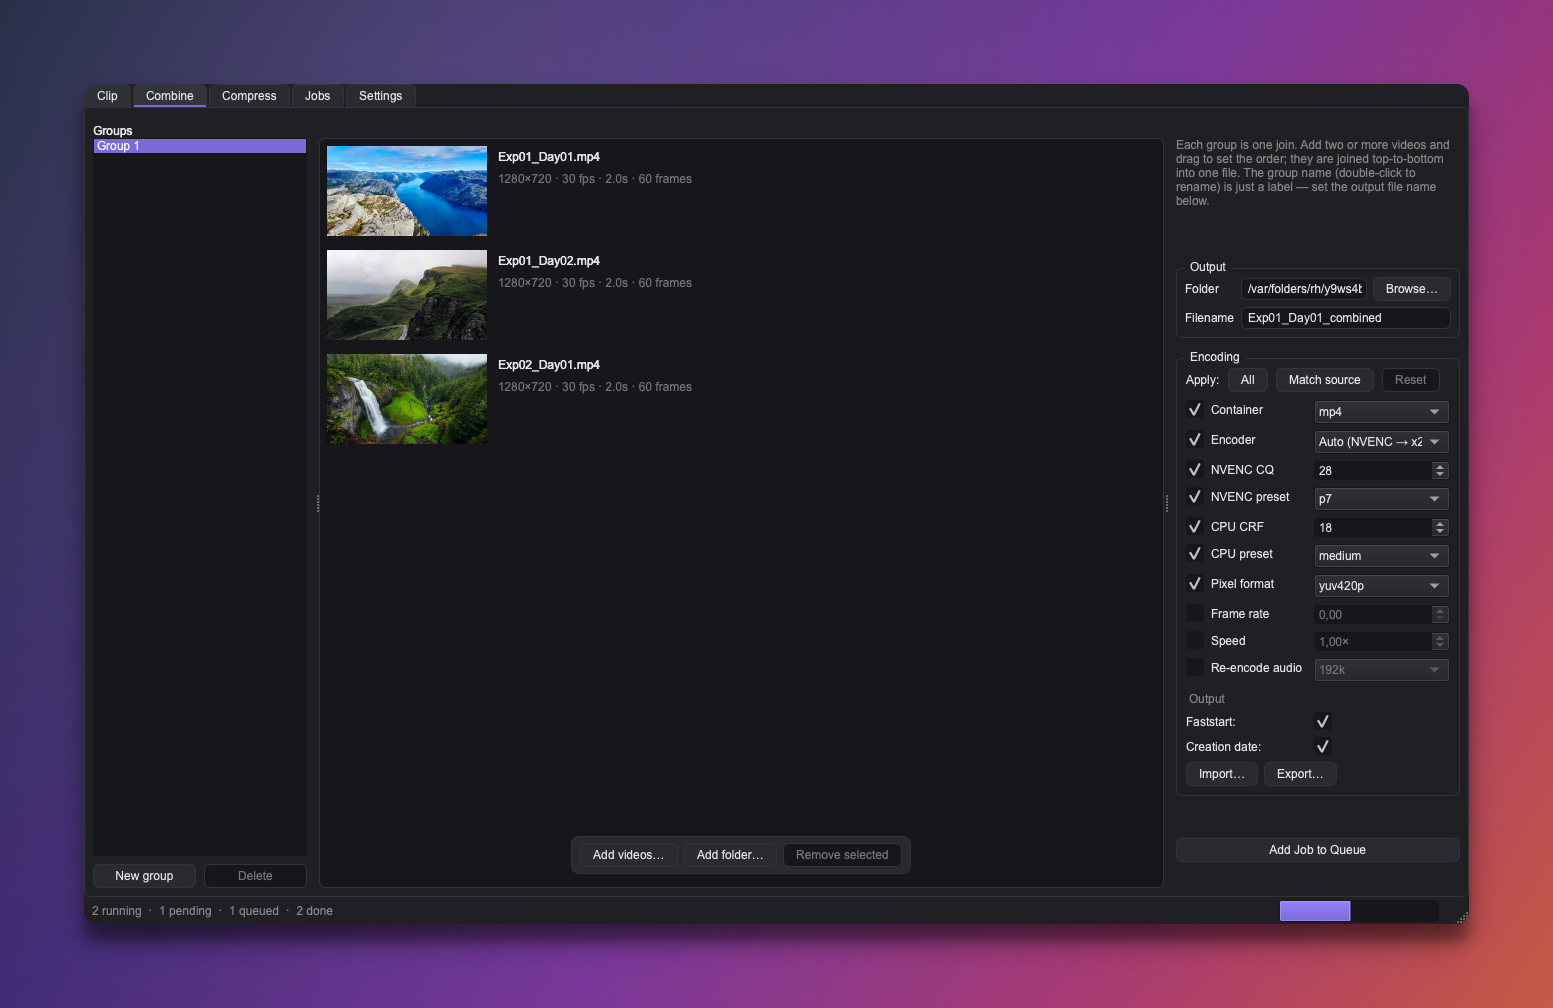
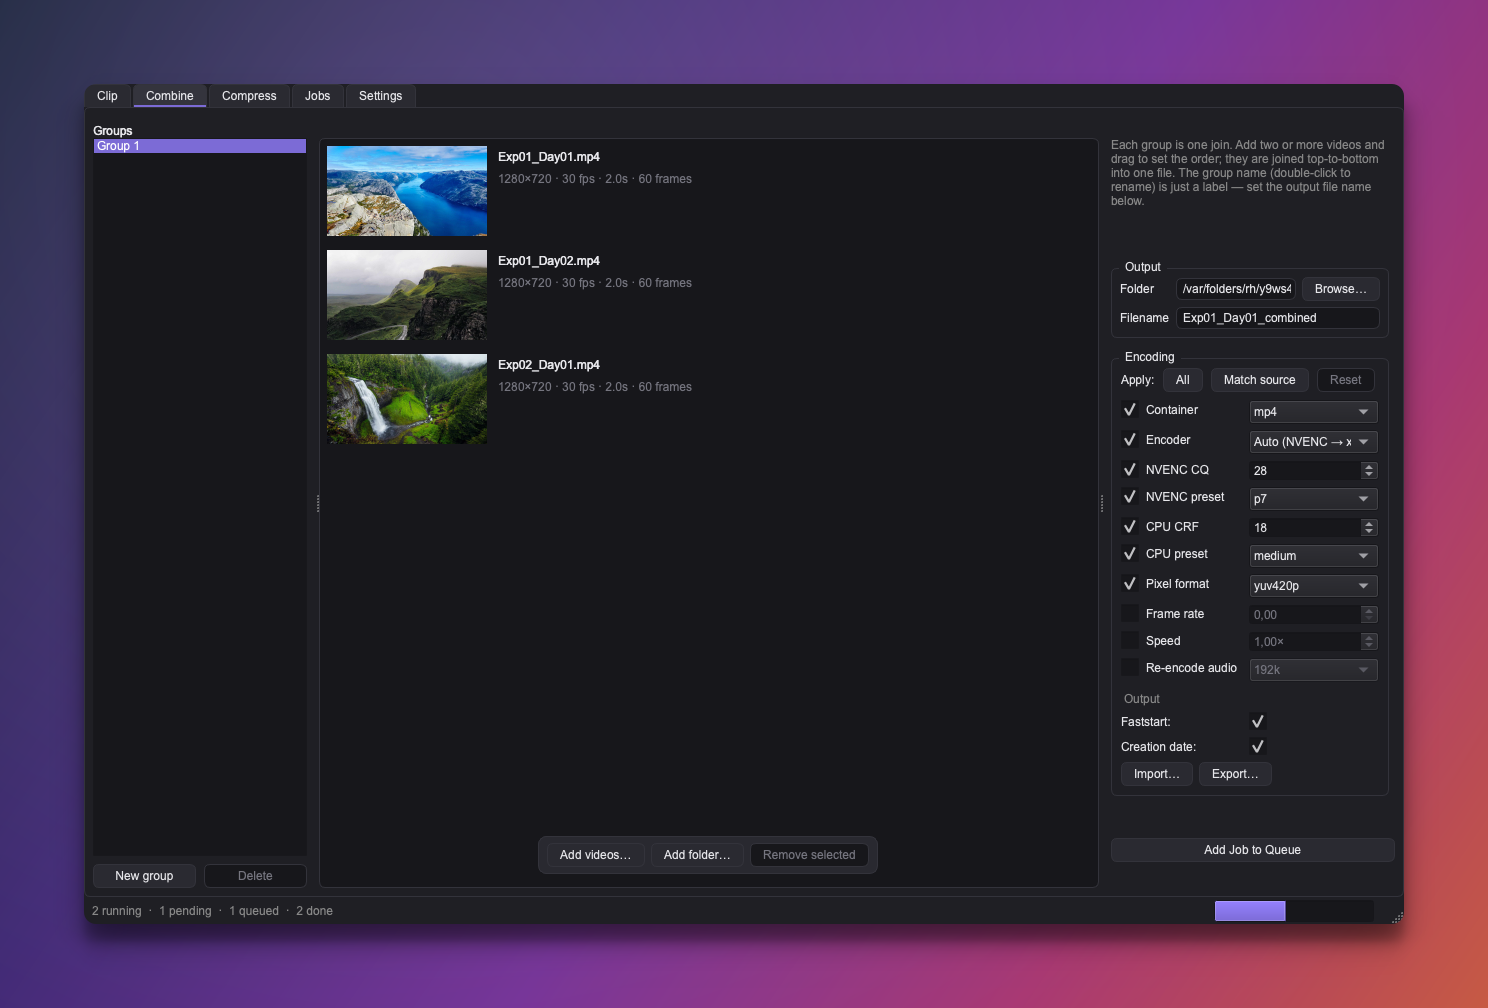
Fit the window to small screens (e.g. 13" MacBooks)
The window opened at 1340×820 but couldn't shrink below a 1440×819
*minimum*, so it overflowed a small laptop display. Three changes drop
that minimum to 1170×614 and open at a size that fits:

- Clamp the initial size to the available screen (keeping 1340×820 on big
  displays) and centre the window.
- Let the transport bar's Start/End mark buttons size to their text
  instead of a fixed width; their caption-growth is absorbed by the
  expanding "Go to" field, so Add Trim stays put. Narrows the Clip tab's
  minimum from ~1440 to ~1170.
- Scroll the Compress/Combine encoding forms (queue button pinned below),
  as the Clip editor already does — dropping their minimum height from
  769 to 190.

Regenerate the screenshots for the compact transport bar + scrolled panels.

diff --git a/src/croppy/gui/combine_tab.py b/src/croppy/gui/combine_tab.py
@@ -16,12 +16,14 @@ from loguru import logger
 from PySide6.QtCore import Qt
 from PySide6.QtWidgets import (
     QAbstractItemView,
+    QFrame,
     QHBoxLayout,
     QLabel,
     QListWidget,
     QListWidgetItem,
     QMessageBox,
     QPushButton,
+    QScrollArea,
     QSplitter,
     QStackedWidget,
     QVBoxLayout,
@@ -119,9 +121,24 @@ class CombineTab(QWidget):
         side = QWidget(splitter)
         self._side = side
         side.setMinimumWidth(280)
-        v = QVBoxLayout(side)
-        v.setContentsMargins(PANEL_MARGIN, PANEL_HEADER_HEIGHT, PANEL_MARGIN, PANEL_MARGIN)
+        # Scroll the controls (queue button pinned below) so the tall encoding
+        # form never forces the window past a small screen's height.
+        outer = QVBoxLayout(side)
+        outer.setContentsMargins(PANEL_MARGIN, PANEL_HEADER_HEIGHT, PANEL_MARGIN, PANEL_MARGIN)
+        outer.setSpacing(12)
+        scroll = QScrollArea()
+        scroll.setWidgetResizable(True)
+        scroll.setFrameShape(QFrame.Shape.NoFrame)
+        scroll.setHorizontalScrollBarPolicy(Qt.ScrollBarPolicy.ScrollBarAlwaysOff)
+        scroll.viewport().setAutoFillBackground(False)
+        outer.addWidget(scroll, 1)
+        gutter = scroll.verticalScrollBar().sizeHint().width() or 16
+        controls = QWidget()
+        controls.setAutoFillBackground(False)
+        v = QVBoxLayout(controls)
+        v.setContentsMargins(0, 0, gutter, 0)
         v.setSpacing(12)
+        scroll.setWidget(controls)
         hint = QLabel(
             "Each group is one join. Add two or more videos and drag to set the "
             "order; they are joined top-to-bottom into one file. The group name "
@@ -149,10 +166,10 @@ class CombineTab(QWidget):
         self.queue_btn = QPushButton("Add Job to Queue")
         self.queue_btn.setEnabled(False)
         self.queue_btn.clicked.connect(self._queue_current)
-        v.addWidget(self.queue_btn)
+        outer.addWidget(self.queue_btn)
 
         self.queued_flash = StatusFlash()
-        v.addWidget(self.queued_flash)
+        outer.addWidget(self.queued_flash)
 
         splitter.addWidget(groups_panel)
         splitter.addWidget(self.stack)

diff --git a/src/croppy/gui/compress_tab.py b/src/croppy/gui/compress_tab.py
@@ -17,9 +17,11 @@ from PySide6.QtCore import Qt
 from PySide6.QtWidgets import (
     QDialog,
     QFileDialog,
+    QFrame,
     QHBoxLayout,
     QLabel,
     QPushButton,
+    QScrollArea,
     QSplitter,
     QVBoxLayout,
     QWidget,
@@ -86,9 +88,24 @@ class CompressTab(QWidget):
 
         side = QWidget(splitter)
         side.setMinimumWidth(280)
-        v = QVBoxLayout(side)
-        v.setContentsMargins(PANEL_MARGIN, PANEL_HEADER_HEIGHT, PANEL_MARGIN, PANEL_MARGIN)
+        # Scroll the controls (with the queue button pinned below) so the tall
+        # encoding form never forces the window past a small screen's height.
+        outer = QVBoxLayout(side)
+        outer.setContentsMargins(PANEL_MARGIN, PANEL_HEADER_HEIGHT, PANEL_MARGIN, PANEL_MARGIN)
+        outer.setSpacing(12)
+        scroll = QScrollArea()
+        scroll.setWidgetResizable(True)
+        scroll.setFrameShape(QFrame.Shape.NoFrame)
+        scroll.setHorizontalScrollBarPolicy(Qt.ScrollBarPolicy.ScrollBarAlwaysOff)
+        scroll.viewport().setAutoFillBackground(False)
+        outer.addWidget(scroll, 1)
+        gutter = scroll.verticalScrollBar().sizeHint().width() or 16
+        controls = QWidget()
+        controls.setAutoFillBackground(False)
+        v = QVBoxLayout(controls)
+        v.setContentsMargins(0, 0, gutter, 0)
         v.setSpacing(12)
+        scroll.setWidget(controls)
 
         hint = QLabel(
             "Add videos to compress. Each becomes <name>_compressed next to the "
@@ -125,10 +142,10 @@ class CompressTab(QWidget):
         self.queue_btn = QPushButton("Add Job to Queue")
         self.queue_btn.setEnabled(False)
         self.queue_btn.clicked.connect(self._queue_jobs)
-        v.addWidget(self.queue_btn)
+        outer.addWidget(self.queue_btn)
 
         self.queued_flash = StatusFlash()
-        v.addWidget(self.queued_flash)
+        outer.addWidget(self.queued_flash)
 
         splitter.addWidget(side)
         splitter.setStretchFactor(0, 1)

diff --git a/src/croppy/gui/transport.py b/src/croppy/gui/transport.py
@@ -171,9 +171,11 @@ class TransportBar(QWidget):
         self._goto_edit = QLineEdit()
         self._goto_edit.setPlaceholderText("Go to HH:MM:SS.mmm")
         self._goto_edit.setToolTip("Jump to a timecode")
-        # Take up the row's slack so there's plenty of room to type a timecode.
+        # Take up the row's slack so there's plenty of room to type a timecode,
+        # and absorb the mark buttons' caption-growth. A small minimum lets the
+        # whole bar compress on narrow windows.
         self._goto_edit.setSizePolicy(QSizePolicy.Policy.Expanding, QSizePolicy.Policy.Fixed)
-        self._goto_edit.setMinimumWidth(160)
+        self._goto_edit.setMinimumWidth(90)
         self._goto_edit.returnPressed.connect(self._on_goto)
         row.addWidget(self._goto_edit, 1)
 
@@ -191,18 +193,11 @@ class TransportBar(QWidget):
         self._end_btn = QPushButton("End")
         self._end_btn.setToolTip("Capture the current frame as the trim end")
         self._end_btn.clicked.connect(self._mark_end)
-        # Pin the mark buttons to their widest label (across both units) so
-        # capturing a value doesn't resize them and shove Add Trim around.
-        fm = self._start_btn.fontMetrics()
-        pin = (
-            max(
-                fm.horizontalAdvance("Start · 00:00:00.000"),
-                fm.horizontalAdvance("Start · frame 9999999"),
-            )
-            + 20
-        )
+        # Let the mark buttons size to their text (compact until a value is
+        # captured) so the transport stays narrow enough for small screens.
+        # Their caption-growth is taken from the expanding "Go to" field to its
+        # left, so Add Trim doesn't shift.
         for btn in (self._start_btn, self._end_btn):
-            btn.setFixedWidth(pin)
             row.addWidget(btn)
 
         self._trim_btn = QPushButton("Add Trim")

diff --git a/src/croppy/gui/main_window.py b/src/croppy/gui/main_window.py
@@ -5,7 +5,7 @@ from __future__ import annotations
 
 from pathlib import Path
 
-from PySide6.QtWidgets import QMainWindow, QTabWidget
+from PySide6.QtWidgets import QApplication, QMainWindow, QTabWidget
 
 from croppy.config import load_parallel_enabled, save_parallel_enabled
 from croppy.gui.clip_tab import ClipTab
@@ -24,7 +24,7 @@ class MainWindow(QMainWindow):
     def __init__(self) -> None:
         super().__init__()
         self.setWindowTitle("Croppy")
-        self.resize(1340, 820)
+        self._open_at_a_fitting_size()
 
         # App-wide border styling (GitHub-like), refreshed on a live theme switch.
         apply_app_theme()
@@ -82,6 +82,26 @@ class MainWindow(QMainWindow):
         super().closeEvent(event)
 
     # --- internals ----------------------------------------------------------
+
+    def _open_at_a_fitting_size(self) -> None:
+        """Open at a comfortable size, but never larger than the screen.
+
+        The preferred 1340×820 overflows a small laptop display (e.g. a 13"
+        MacBook at 1280×800), so clamp to the available area (minus a margin for
+        the menu bar / dock) and centre the window there.
+        """
+        preferred_w, preferred_h = 1340, 820
+        screen = self.screen() or QApplication.primaryScreen()
+        if screen is None:
+            self.resize(preferred_w, preferred_h)
+            return
+        available = screen.availableGeometry()
+        width = min(preferred_w, available.width() - 40)
+        height = min(preferred_h, available.height() - 40)
+        self.resize(width, height)
+        frame = self.frameGeometry()
+        frame.moveCenter(available.center())
+        self.move(frame.topLeft())
 
     def _on_parallel_toggled(self, enabled: bool) -> None:
         save_parallel_enabled(enabled)
